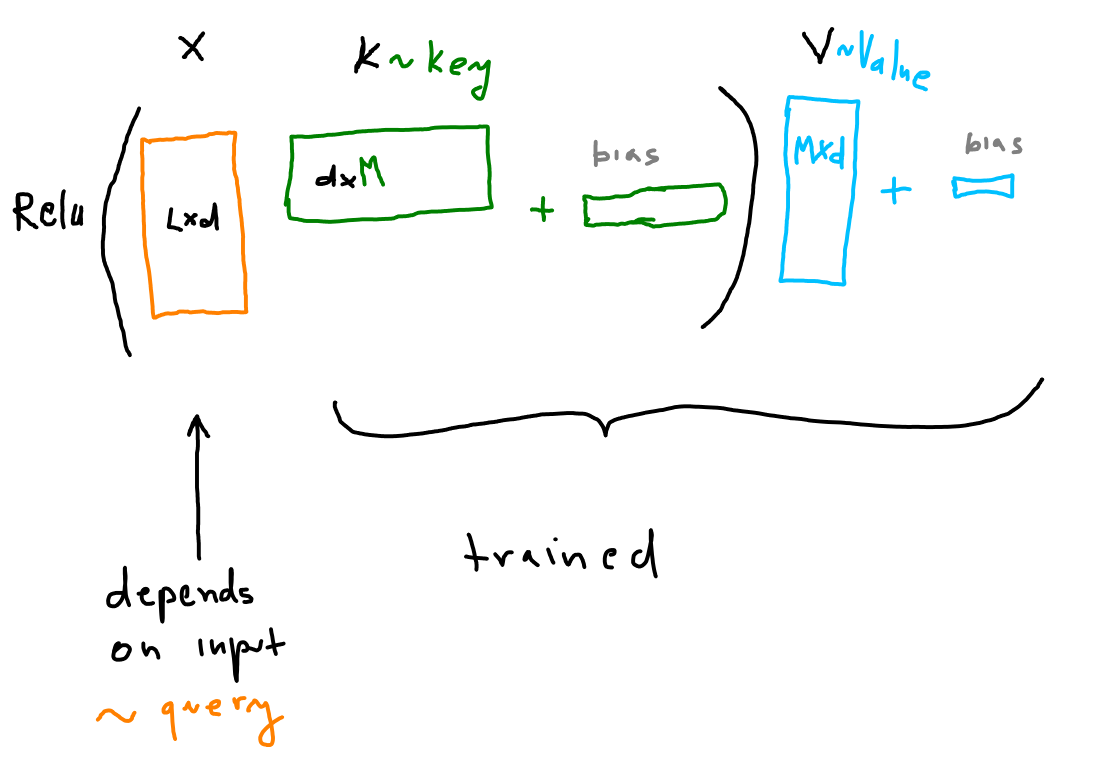
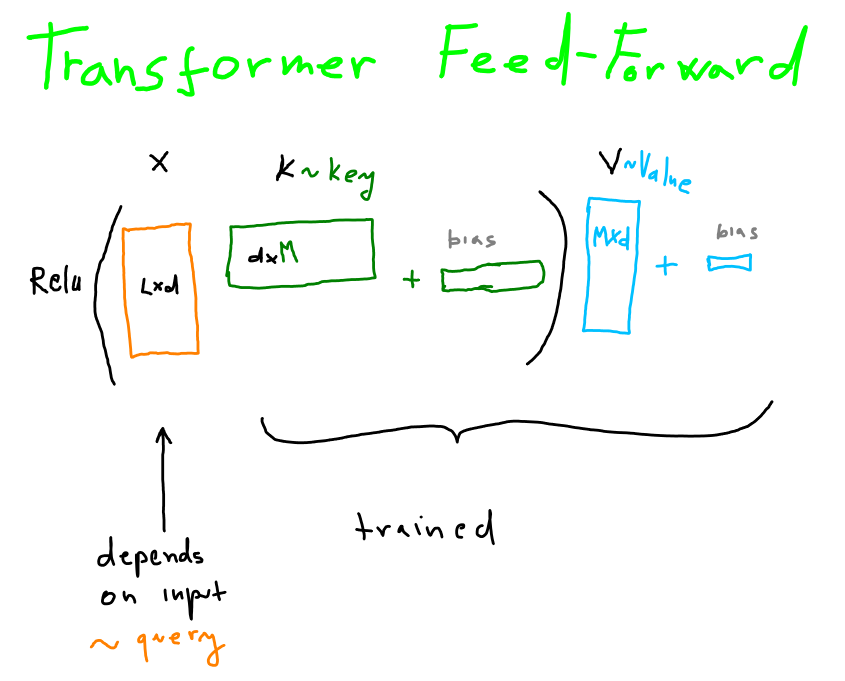
transformer feed forward

diff --git a/_drafts/2021-01-02-Trasformer-Queries-a-Key-Value-Memory-after-the-Attention.md b/_drafts/2021-01-02-Trasformer-Queries-a-Key-Value-Memory-after-the-Attention.md
@@ -3,6 +3,7 @@ layout: post
 title: "Transformer Queries a Key-Value Memory After the Attention"
 date: 2021-01-02
 categories: ml
+image: /images/transformer-feed-forward.png
 description: Transformer model looks up not only in the input sequence via an self-attention, but also in a static memory via a feed-forward layer.
 permalink: /:categories/:title
 ---
@@ -12,6 +13,16 @@ permalink: /:categories/:title
 <script id="MathJax-script" async src="https://cdn.jsdelivr.net/npm/mathjax@3/es5/tex-mml-chtml.js"></script>
 
 [comment]: <> (<iframe width="560" height="315" src="https://www.youtube.com/embed/SYxm3R5VAsw" frameborder="0" allow="accelerometer; autoplay; clipboard-write; encrypted-media; gyroscope; picture-in-picture" allowfullscreen></iframe>)
+
+<figure class="figure">
+    <img
+        class="figure-img img-fluid rounded"
+        alt="Transformer Feed-Forward Layer"
+        src="/images/transformer-feed-forward.png">
+    <figcaption class="figure-caption">
+        Transformer Feed-Forward Layer 
+    </figcaption>
+</figure>
 
 Have you forgotten about Transformer's feed-forward layer? It eats 2/3 of the model params!
 
